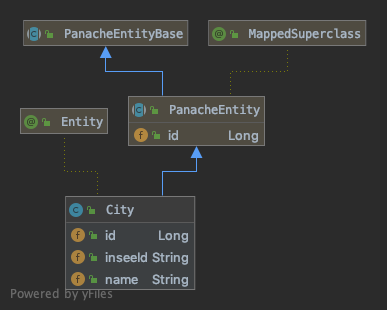
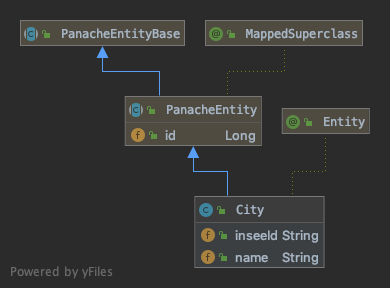
slides :: hibernate with panache

diff --git a/slides/quarkus-jpa.md b/slides/quarkus-jpa.md
@@ -85,4 +85,35 @@ Mais pour des besoins avancés, il est possible de mettre en place ce fichier
 En génie logiciel, le patron de conception (design pattern) active record (enregistrement actif en français) est une approche pour lire les données d'une base de données. Les attributs d'une table ou d'une vue sont encapsulés dans une classe. Ainsi l'objet, instance de la classe, est lié à un tuple de la base. Après l'instanciation d'un objet, un nouveau tuple est ajouté à la base au moment de l'enregistrement. Chaque objet récupère ses données depuis la base ; quand un objet est mis à jour, le tuple auquel il est lié l'est aussi. La classe implémente des accesseurs pour chaque attribut. <!-- .element style="font-size: 60%;" -->
 
 *- Wikipedia*<!-- .element style="color: #e57125; float: right" -->
-  
+
+-@@-
+
+## Active record
+
+## TL;DR
+
+-@@-
+
+## Active record
+
+**L'entité porte les méthodes pour la manipuler**
+
+-@@-
+
+## Hibernate with *Panache*
+
+Les entité herite de `PanacheEntity`
+
+![](images/panache/PanacheEntity.png)
+
+-@@-
+
+## Hibernate with *Panache*
+
+![](images/panache/entity.png)
+
+-@@-
+
+## Hibernate with *Panache*
+
+# Demo
